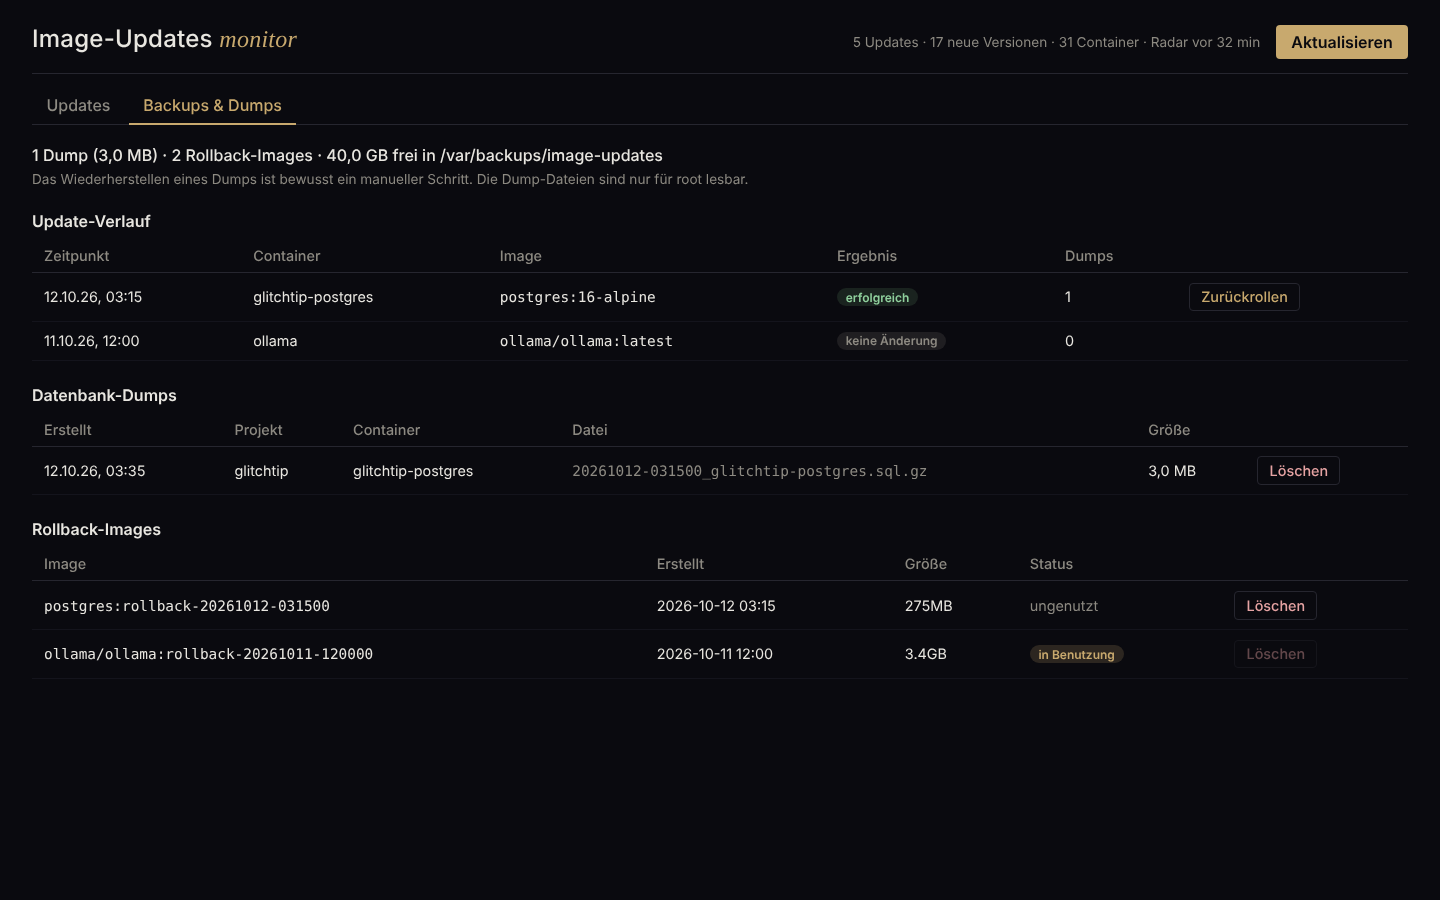
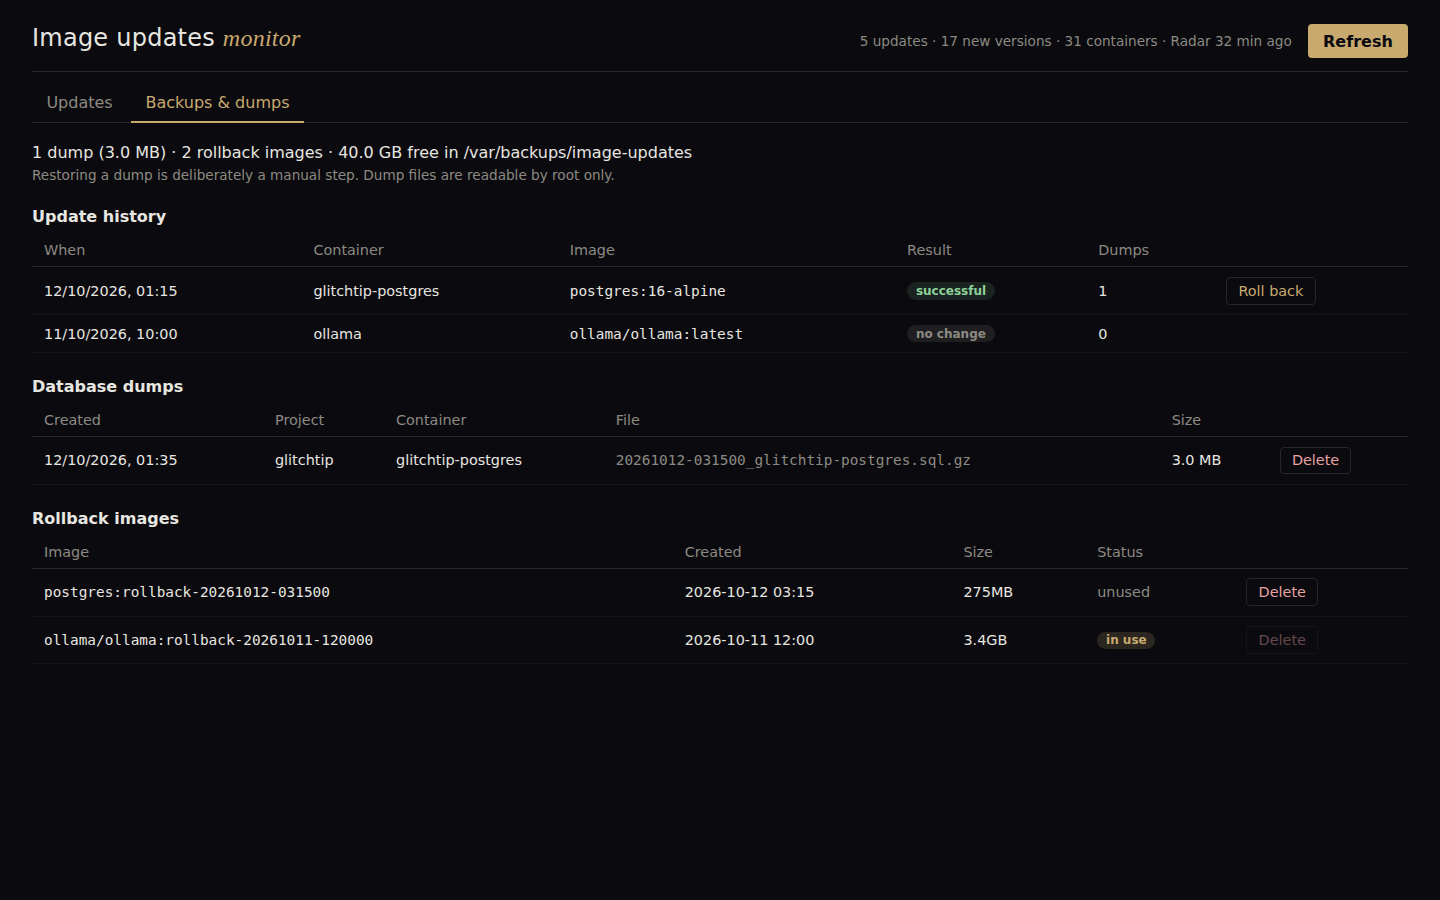
Lint and English preview screenshots in CI
## Summary
- **Lint in the `test` job:** `shellcheck --severity=warning` on all shell scripts and `ruff check` with a fixed rule set (pyflakes and syntax-level errors; Python 3.8 syntax for the root helpers, `ruff.toml`). Two findings fixed: `run-all.sh` stops if it cannot change into its directory; `e2e-server.sh` explains why its check variables look unused to shellcheck.
- **Browser preview in CI:** the `test` job builds the preview and opens it in Chromium; it fails on JavaScript errors or sideways scrolling on a phone and keeps the screenshots as an artifact.
- **English screenshots:** `shoot.py` uses the English UI, the preview's update log is English test data, and the README images come from the CI run of this branch (`updates-en.png` is gone).
- **Pinned check tools:** `test/requirements.txt` (playwright, ruff, shellcheck); Dependabot `pip` keeps them current.
- Working notes: the repository baseline shared by all Azentrius repositories; ROADMAP 1.1 #7 (CI) done; README shows the lint commands.

diff --git a/tools/preview/shoot.py b/tools/preview/shoot.py
@@ -35,7 +35,7 @@ def main():
             pg.wait_for_timeout(500)
             return pg
 
-        pg = page(1440, 900, "de")
+        pg = page(1440, 900, "en")
         pg.screenshot(path=os.path.join(OUT, "updates.png"))
         pg.click('button[data-update="glitchtip-postgres"]')
         pg.wait_for_timeout(400)
@@ -44,15 +44,12 @@ def main():
         pg.wait_for_timeout(1200)
         pg.screenshot(path=os.path.join(OUT, "update-done.png"))
 
-        pg = page(1440, 900, "de")
+        pg = page(1440, 900, "en")
         pg.click("#dm-tab-btn-backups")
         pg.wait_for_timeout(500)
         pg.screenshot(path=os.path.join(OUT, "backups.png"))
 
-        pg = page(1440, 900, "en")
-        pg.screenshot(path=os.path.join(OUT, "updates-en.png"))
-
-        pg = page(390, 1400, "de")
+        pg = page(390, 1400, "en")
         pg.screenshot(path=os.path.join(OUT, "mobile.png"))
         widths = pg.evaluate("() => [document.documentElement.scrollWidth, document.documentElement.clientWidth]")
         browser.close()

diff --git a/.claude/CLAUDE.md b/.claude/CLAUDE.md
@@ -38,6 +38,29 @@ The same in every Azentrius repository.
 Here the German translation is `I18N.de` in `plugin/diun.js`, `plugin/po.manifest.de.js` and the
 German half of the helpers' `say(de, en)` / `msg de en` messages.
 
+## Repository baseline
+
+The same in every Azentrius repository; keep it when changing the repository or its settings.
+
+- **Security.** `SECURITY.md` with private vulnerability reporting; secret scanning with push
+  protection; Dependabot alerts and security updates; Dependabot version updates for every
+  ecosystem in use and for GitHub Actions; CodeQL default setup.
+- **Branches and tags.** Ruleset `main`: pull request, squash only, linear history, no deletion or
+  force push, required check `test`. Ruleset `release tags`: `v*` cannot be deleted or moved.
+- **CI.** The job `test` runs every test and every lint on each push and pull request. Actions are
+  pinned by commit SHA with the version as a comment; checkouts use `persist-credentials: false`;
+  the token is read-only unless a job needs more. Check tools are pinned as well, so Dependabot keeps
+  them current.
+- **Releases.** Only the `release` workflow makes releases, on request, from `main`: it checks the
+  version against the code and the existing tags, runs all tests, builds the artifact with
+  `SHA256SUMS`, signs a build provenance (`gh attestation verify`) and takes the notes from
+  `CHANGELOG.md`. Releases are immutable. Files that are not for users stay out of the artifact.
+- **Licensing.** `LICENSE` in the root; `NOTICE` for third-party material.
+
+Here: check tools in `test/requirements.txt` (pip) and `test/package.json` (npm); lint is
+`shellcheck --severity=warning` and `ruff check` (Python 3.8 syntax, `ruff.toml`); the artifact is
+`git archive` of the repository minus `export-ignore` (`.gitattributes`).
+
 ## Layout
 
 ```
@@ -60,8 +83,10 @@ tools/release-notes.sh        notes for a release from CHANGELOG.md
 
 ```bash
 cd test && npm ci && ./run-all.sh              # all offline tests (Python + jsdom), must be green
+pip install -r test/requirements.txt           # pinned check tools: shellcheck, ruff, playwright
+shellcheck --severity=warning lib/*.sh install.sh test/*.sh tools/*.sh && ruff check .   # lint, as in CI
 python3 tools/preview/build.py                 # preview: tools/preview/out/diun/index.html?lang=de
-python3 tools/preview/shoot.py /tmp/shots      # screenshots (playwright + chromium), checks JS errors + phone width
+python3 tools/preview/shoot.py /tmp/shots      # screenshots (English UI; default output docs/img), checks JS errors + phone width
 DESTDIR=/tmp/stage ./install.sh                # installer, dry, into a staging directory
 ```
 

diff --git a/ROADMAP.md b/ROADMAP.md
@@ -34,7 +34,7 @@ Done (see [CHANGELOG](CHANGELOG.md)):
 | 4 | **Versions in the history** | `operations.jsonl` gets `from_version` / `to_version` (via `diunlib.local_version` or the radar cache). The history shows “16.14 → 16.15”. | old entries without the fields are still shown |
 | 5 | **MariaDB/MySQL end-to-end** | Extend `test/e2e-server.sh` with a throw-away project using `mariadb:11` (and `mysql:8`): the dump contains test data, abort on a wrong password. | E2E green for Postgres, MariaDB, MySQL |
 | 6 | **Offline tests for `diun-update.py`** | Fake `docker`/`compose` like `test/inv_test.py`: plan reasons, database detection (`kind_of`), exit codes, path checks. | `run-all.sh` covers `diun-update.py` without Docker |
-| 7 | **CI** | The `test` workflow runs `test/run-all.sh` and the installer on every push and PR (done). Still missing: `shellcheck lib/*.sh install.sh test/*.sh tools/*.sh`, `python -m pyflakes lib`. | green check on every push/PR, including lint |
+| 7 | **CI** ✅ | The `test` workflow runs lint (`shellcheck`, `ruff`), `test/run-all.sh`, the installer and the browser preview on every push and PR. | done |
 | 8 | **systemd units as files** | `diun-radar.service/.timer` live as a heredoc in `diun-deps.sh` today. Move them to `systemd/`; `install.sh` and `diun-deps.sh` use the same source. | one source of truth; `diun-deps.sh install radar` works unchanged |
 
 ---
@@ -158,7 +158,6 @@ and tested.
 | `plugin/diun.js` has ~1,300 lines in one file | split into ES modules (`<script type="module">` works under Cockpit's CSP without a build step): `i18n.js`, `dialog.js`, `updates.js`, `backups.js` |
 | Package name `diun` (URL `/cockpit/@host/diun`) no longer fits the scope | rename to `image-updates`, `install.sh` removes the old directory; bookmarks change |
 | Units as a heredoc in `diun-deps.sh` | see 1.1 #8 |
-| No type/lint check | `pyflakes`/`ruff`, `shellcheck` in CI (1.1 #7) |
 | `diun-update.py` only tested by E2E | offline tests (1.1 #6) |
 | Radar run fixed at `:17` every 6 h | `RandomizedDelaySec=` against registry peaks |
 | Documentation of the JSON formats | update `docs/INTERNALS.md` and the fixtures in `test/fixtures/` with every format change |

diff --git a/README.md b/README.md
@@ -4,7 +4,7 @@ A [Cockpit](https://cockpit-project.org/) add-on that shows three things for eve
 Updates with the same tag (e.g. `latest`, `16-alpine`) can be applied right from Cockpit, with a database dump first, a rollback copy of the old image and a rollback at the push of a button.
 Everything that runs as root for this is a small, fixed set of helper scripts. The browser makes no external requests, and Diun sees Docker only through a read-only socket proxy.
 
-![Overview: Configured, Installed, Newest version](docs/img/updates-en.png)
+![Overview: Configured, Installed, Newest version](docs/img/updates.png)
 
 **Contents**
 
@@ -398,7 +398,15 @@ docs/              INTERNALS.md (interfaces, formats), images
 cd test && npm ci && ./run-all.sh
 ```
 
-Covered, among other things:
+**Lint** (the `test` workflow runs it too; the tools are pinned in `test/requirements.txt`):
+
+```bash
+pip install -r test/requirements.txt
+shellcheck --severity=warning lib/*.sh install.sh test/*.sh tools/*.sh
+ruff check .
+```
+
+Covered by the tests, among other things:
 - version sources and tag schemes
 - Docker Hub and registry matching (with fakes)
 - cache and registry outage
@@ -465,7 +473,7 @@ In detail, with goals, scope and acceptance criteria, in **[ROADMAP.md](ROADMAP.
 | Stage | Content | State |
 |---|---|---|
 | 1 | Update/roll out with the same tag, database dump, rollback, backups tab | **done** |
-| 1.1 | Polish: start the radar after an update, cleanup rules, “Check radar now”, versions in the history, MariaDB E2E, lint in CI | planned |
+| 1.1 | Polish: start the radar after an update, cleanup rules, “Check radar now”, versions in the history, MariaDB E2E | planned |
 | 2 | Version jumps: pick a target tag, change the compose file (and `.env`) safely, diff preview, same update flow | planned |
 | 3 | Release notes / changelog links per version, hints on breaking changes | idea |
 | 4 | Automatic updates by rules (e.g. patch at night), notifications, automatic rollback | idea |
